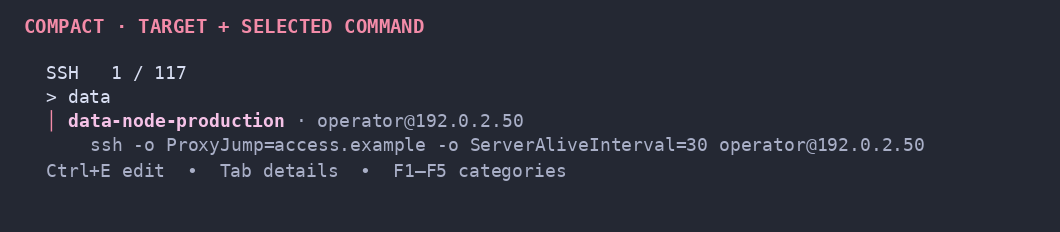
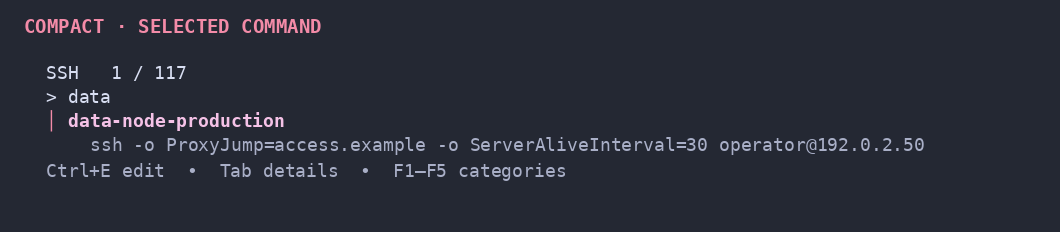
[verified] Show commands only below selected SSH entry

Changed region(s): [[0.1245, 0.0603, 0.4047, 0.1509], [0.2802, 0.4828, 0.4981, 0.5733]]

diff --git a/internal/ui/picker_test.go b/internal/ui/picker_test.go
@@ -26,7 +26,7 @@ func TestPickerUsesSingleLineResultsByDefault(t *testing.T) {
 	}
 }
 
-func TestPickerShowsAddressInRowsAndSelectedCommandBelow(t *testing.T) {
+func TestPickerShowsOnlySelectedCommandBelowName(t *testing.T) {
 	entry := notes.Entry{
 		Desc:    "gateway-production-primary",
 		Address: "operator@192.0.2.10:2222",
@@ -37,15 +37,18 @@ func TestPickerShowsAddressInRowsAndSelectedCommandBelow(t *testing.T) {
 	m := NewPicker([]notes.Entry{entry}, "", DefaultTheme(), Options{Height: 8, ShowAddress: true})
 	m.width, m.height = 100, 8
 	plain := stripANSI(m.View())
-	if !strings.Contains(plain, "│ gateway-production-primary · operator@192.0.2.10:2222") {
-		t.Fatalf("selected row does not preserve the full name and short address: %q", plain)
+	if !strings.Contains(plain, "│ gateway-production-primary") {
+		t.Fatalf("selected row lost its full name: %q", plain)
+	}
+	if strings.Contains(plain, "· operator@192.0.2.10:2222") {
+		t.Fatalf("selected row still shows the obsolete short target preview: %q", plain)
 	}
 	if !strings.Contains(plain, "ssh -p 2222 operator@192.0.2.10") {
 		t.Fatalf("selected row does not show its full command below: %q", plain)
 	}
 }
 
-func TestUnselectedRowsDoNotRepeatFullCommands(t *testing.T) {
+func TestUnselectedRowsShowOnlyNames(t *testing.T) {
 	entries := []notes.Entry{
 		{Desc: "selected", Address: "root@192.0.2.1", Command: "ssh -o ProxyJump=jump root@192.0.2.1", Actions: []notes.Action{{Cmd: "ssh selected"}}},
 		{Desc: "unselected-long-name-that-must-stay-complete", Address: "admin@192.0.2.2", Command: "ssh -o ProxyJump=jump admin@192.0.2.2", Actions: []notes.Action{{Cmd: "ssh unselected"}}},
@@ -53,8 +56,11 @@ func TestUnselectedRowsDoNotRepeatFullCommands(t *testing.T) {
 	m := NewPicker(entries, "", DefaultTheme(), Options{Height: 10, ShowAddress: true})
 	m.width, m.height = 100, 10
 	plain := stripANSI(m.View())
-	if !strings.Contains(plain, "unselected-long-name-that-must-stay-complete · admin@192.0.2.2") {
-		t.Fatalf("unselected row lost its full name or address: %q", plain)
+	if !strings.Contains(plain, "unselected-long-name-that-must-stay-complete") {
+		t.Fatalf("unselected row lost its full name: %q", plain)
+	}
+	if strings.Contains(plain, "admin@192.0.2.2") {
+		t.Fatalf("unselected row shows an address or command preview: %q", plain)
 	}
 	if strings.Count(plain, "ssh -o ProxyJump=jump") != 1 {
 		t.Fatalf("full command should appear only for the selected row: %q", plain)
@@ -118,8 +124,8 @@ func TestSelectedCommandTailIsNotClippedByCompactHeight(t *testing.T) {
 func TestSelectedCommandWrapsSingleLongTokenByDisplayWidth(t *testing.T) {
 	command := strings.Repeat("界", 30)
 	for _, line := range selectedCommandLines(command, 24) {
-		if width := ansi.StringWidth(line); width > 20 {
-			t.Fatalf("selected command line width = %d, want <= 20: %q", width, line)
+		if width := ansi.StringWidth(line); width > 22 {
+			t.Fatalf("selected command line width = %d, want <= 22: %q", width, line)
 		}
 	}
 }
@@ -143,8 +149,8 @@ func TestMinimumViewportPreservesCompleteWrappedTarget(t *testing.T) {
 	m.width, m.height = 20, 6
 	plain := stripANSI(m.View())
 	compact := strings.NewReplacer(" ", "", "\t", "", "\n", "", "\r", "").Replace(plain)
-	if !strings.Contains(compact, target) {
-		t.Fatalf("minimum viewport lost part of wrapped target: %q", plain)
+	if !strings.Contains(compact, "selected-nam") || !strings.Contains(compact, target) || !strings.Contains(plain, "…") {
+		t.Fatalf("minimum viewport lost the selected name, omission marker, or part of the wrapped target: %q", plain)
 	}
 }
 
@@ -282,8 +288,11 @@ func TestCompactHeightIncludesSelectedCommandAndOtherRows(t *testing.T) {
 	m := NewPicker(entries, "", DefaultTheme(), Options{Height: 12, ShowAddress: true})
 	m.width, m.height = 80, 12
 	plain := stripANSI(m.View())
-	if !strings.Contains(plain, "two · root@192.0.2.2") || !strings.Contains(plain, "three · root@192.0.2.3") {
+	if !strings.Contains(plain, "two") || !strings.Contains(plain, "three") {
 		t.Fatalf("selected command preview hid ordinary rows: %q", plain)
+	}
+	if strings.Contains(plain, "root@192.0.2.2") || strings.Contains(plain, "root@192.0.2.3") {
+		t.Fatalf("ordinary rows still show obsolete short target previews: %q", plain)
 	}
 }
 
@@ -318,7 +327,7 @@ func TestAddressModeKeepsFuzzyMatchHighlighting(t *testing.T) {
 	}
 }
 
-func TestAddressModeFitsMinimumPickerHeight(t *testing.T) {
+func TestSelectedCommandModeFitsMinimumPickerHeight(t *testing.T) {
 	entries := []notes.Entry{
 		{Desc: "one", Address: "operator@192.0.2.1", Kind: "host", Actions: []notes.Action{{Cmd: "ssh one"}}},
 		{Desc: "two", Address: "operator@192.0.2.2", Kind: "host", Actions: []notes.Action{{Cmd: "ssh two"}}},
@@ -326,8 +335,8 @@ func TestAddressModeFitsMinimumPickerHeight(t *testing.T) {
 	m := NewPicker(entries, "", DefaultTheme(), Options{Height: 6, ShowAddress: true})
 	m.width, m.height = 100, 6
 	plain := stripANSI(m.View())
-	if !strings.Contains(plain, "operator@192.0.2.1") || !strings.Contains(plain, "F1–F5 categories") || strings.Contains(plain, "…") {
-		t.Fatalf("minimum-height address mode is clipped: %q", plain)
+	if !strings.Contains(plain, "one") || !strings.Contains(plain, "two") || !strings.Contains(plain, "F1–F5 categories") || strings.Contains(plain, "operator@") || strings.Contains(plain, "…") {
+		t.Fatalf("minimum-height selected-command mode is clipped or shows an obsolete target preview: %q", plain)
 	}
 }
 

diff --git a/internal/ui/picker.go b/internal/ui/picker.go
@@ -1000,15 +1000,15 @@ func (m PickerModel) resultLines(width int, rowStyle, selectedStyle, detailStyle
 		entry := match.Entry
 		selected := index == m.cursor
 		rowLines := m.renderMatchLabelLines(match, entry, width, selected, rowStyle, selectedStyle, detailStyle)
-		if selected {
-			rowLines = fitSelectedLabelLines(rowLines, entry.Address, width, budget, detailStyle)
-		}
 		if selected && m.options.ShowAddress {
-			commandSlots := maxInt(0, budget-len(rowLines))
-			commandLines := fitSelectedCommandLines(selectedCommandLines(entry.Command, width), commandSlots, maxInt(8, width-4))
+			commandLines := fitSelectedCommandLines(entry.Command, selectedCommandLines(entry.Command, width), maxInt(0, budget-1), maxInt(8, width-2))
+			labelBudget := maxInt(1, budget-len(commandLines))
+			rowLines = fitSelectedLabelLines(rowLines, "", width, labelBudget, detailStyle)
 			for _, commandLine := range commandLines {
-				rowLines = append(rowLines, detailStyle.Render("    "+commandLine))
+				rowLines = append(rowLines, detailStyle.Render("  "+commandLine))
 			}
+		} else if selected {
+			rowLines = fitSelectedLabelLines(rowLines, "", width, budget, detailStyle)
 		}
 		rows = append(rows, renderedRow{lines: rowLines})
 	}
@@ -1060,7 +1060,7 @@ func fitSelectedLabelLines(lines []string, target string, width, budget int, det
 	target = strings.TrimSpace(target)
 	if target == "" {
 		if budget == 1 {
-			return []string{detailStyle.Render("…")}
+			return []string{truncateRunes(lines[0], width)}
 		}
 		out := append([]string(nil), lines[:budget-1]...)
 		out = append(out, detailStyle.Render("…"))
@@ -1087,14 +1087,16 @@ func fitSelectedLabelLines(lines []string, target string, width, budget int, det
 
 func (m PickerModel) renderMatchLabelLines(match notes.Match, entry notes.Entry, width int, selected bool, rowStyle, selectedStyle, detailStyle lipgloss.Style) []string {
 	label := strings.Join(strings.Fields(strings.TrimSpace(match.Label)), " ")
-	target := strings.Join(strings.Fields(strings.TrimSpace(entry.Address)), " ")
+	if label == "" {
+		label = strings.Join(strings.Fields(strings.TrimSpace(match.Detail)), " ")
+	}
 	prefix := "  "
 	if selected {
 		prefix = m.theme.SelectedMark + " "
 	}
 	rowWidth := maxInt(12, width)
 	contentWidth := maxInt(8, rowWidth-ansi.StringWidth(prefix))
-	if !m.options.ShowAddress || (target == "" && ansi.StringWidth(label) <= contentWidth) || (target != "" && ansi.StringWidth(label)+3+ansi.StringWidth(target) <= contentWidth) {
+	if ansi.StringWidth(label) <= contentWidth {
 		return []string{m.renderMatchLabelLine(match, entry, width, selected, rowStyle, selectedStyle, detailStyle)}
 	}
 	primaryStyle := rowStyle
@@ -1103,7 +1105,6 @@ func (m PickerModel) renderMatchLabelLines(match notes.Match, entry notes.Entry,
 	}
 	query := strings.TrimSpace(m.input.Value())
 	primaryMatchStyle := primaryStyle.Foreground(lipgloss.Color(m.theme.MatchFG)).Bold(true)
-	detailMatchStyle := detailStyle.Foreground(lipgloss.Color(m.theme.MatchFG)).Bold(true)
 	lines := []string{}
 	for index, part := range wrapDisplayWidth(label, contentWidth) {
 		linePrefix := "  "
@@ -1111,14 +1112,6 @@ func (m PickerModel) renderMatchLabelLines(match notes.Match, entry notes.Entry,
 			linePrefix = prefix
 		}
 		lines = append(lines, primaryStyle.Render(linePrefix)+renderFuzzyText(part, query, primaryStyle, primaryMatchStyle))
-	}
-	if target == "" {
-		return lines
-	}
-	targetPrefix := "    "
-	targetWidth := maxInt(4, rowWidth-ansi.StringWidth(targetPrefix))
-	for _, part := range wrapDisplayWidth(target, targetWidth) {
-		lines = append(lines, detailStyle.Render(targetPrefix)+renderFuzzyText(part, query, detailStyle, detailMatchStyle))
 	}
 	return lines
 }
@@ -1134,7 +1127,7 @@ func (m PickerModel) renderMatchLabelLine(match notes.Match, entry notes.Entry, 
 
 	detailText := match.Detail
 	if m.options.ShowAddress {
-		detailText = entry.Address
+		detailText = ""
 	}
 	if m.showInlinePreview() && selected && !entry.HasCmd() {
 		preview := m.cachedPreview(entry)
@@ -1290,7 +1283,7 @@ func selectedCommandLines(command string, width int) []string {
 	if command == "" {
 		return nil
 	}
-	width = maxInt(8, width-4)
+	width = maxInt(8, width-2)
 	words := splitDisplayWords(command)
 	if len(words) == 0 {
 		return nil
@@ -1327,7 +1320,7 @@ func selectedCommandLines(command string, width int) []string {
 	return lines
 }
 
-func fitSelectedCommandLines(lines []string, slots, width int) []string {
+func fitSelectedCommandLines(command string, lines []string, slots, width int) []string {
 	if slots <= 0 || len(lines) == 0 {
 		return nil
 	}
@@ -1336,6 +1329,15 @@ func fitSelectedCommandLines(lines []string, slots, width int) []string {
 	}
 	if slots == 1 {
 		return []string{truncateMiddleRunes(strings.Join(lines, " "), width)}
+	}
+	words := splitDisplayWords(command)
+	if len(words) > 0 {
+		tail := wrapDisplayWidth("… "+words[len(words)-1], width)
+		if len(tail) <= slots {
+			prefixCount := slots - len(tail)
+			out := append([]string(nil), lines[:prefixCount]...)
+			return append(out, tail...)
+		}
 	}
 	out := append([]string(nil), lines[:slots-1]...)
 	last := "… " + truncateLeftWidth(lines[len(lines)-1], maxInt(1, width-2))

diff --git a/docs/screenshots/generate.py b/docs/screenshots/generate.py
@@ -27,16 +27,7 @@ def draw_rows(draw, x, y, rows, selected):
     for i, (name_text, address, command) in enumerate(rows):
         marker = "│" if i == selected else " "
         draw.text((x, y), marker, fill=PINK if i == selected else FG, font=FONT)
-        draw_segments(
-            draw,
-            x + 22,
-            y,
-            [
-                (name_text, MATCH if i == selected else FG, BOLD if i == selected else FONT),
-                (" · ", MUTED, FONT),
-                (address, MUTED, FONT),
-            ],
-        )
+        draw.text((x + 22, y), name_text, fill=MATCH if i == selected else FG, font=BOLD if i == selected else FONT)
         y += LINE
         if i == selected and command:
             for command_line in textwrap.wrap(command, width=82, break_long_words=False, break_on_hyphens=False):
@@ -77,7 +68,7 @@ save("compact-bottom.png", (1060, 312), "COMPACT · BOTTOM", "COMMANDS   4 / 117
 save(
     "compact-top-address.png",
     (1060, 232),
-    "COMPACT · TARGET + SELECTED COMMAND",
+    "COMPACT · SELECTED COMMAND",
     "SSH   1 / 117",
     "data",
     [("data-node-production", "operator@192.0.2.50", "ssh -o ProxyJump=access.example -o ServerAliveInterval=30 operator@192.0.2.50")],

diff --git a/internal/config/config.go b/internal/config/config.go
@@ -338,7 +338,7 @@ func renderConfig(cfg File) string {
 		"# hosts are stored as OpenSSH config in ~/.ssh/config.d/f_hosts/*.conf",
 		"# ui_mode: compact | full-screen (both use the same frameless fzf-style UI)",
 		"# layout: top | bottom (compact mode only)",
-		"# show_address: show name + target rows and the selected composed command below",
+		"# show_address: show the composed command only below the selected name (legacy key name)",
 		"ui_mode: " + yamlScalar(cfg.UIMode),
 		"layout: " + yamlScalar(cfg.Layout),
 		"picker_height: " + strconv.Itoa(cfg.PickerHeight),

diff --git a/internal/app/app_test.go b/internal/app/app_test.go
@@ -67,8 +67,8 @@ func TestVersionReportsCurrentRelease(t *testing.T) {
 	if err := Run([]string{"version"}, strings.NewReader(""), &stdout, &stderr); err != nil {
 		t.Fatal(err)
 	}
-	if got := strings.TrimSpace(stdout.String()); got != "f 0.9.8" {
-		t.Fatalf("version = %q, want %q", got, "f 0.9.8")
+	if got := strings.TrimSpace(stdout.String()); got != "f 0.9.9" {
+		t.Fatalf("version = %q, want %q", got, "f 0.9.9")
 	}
 }
 

diff --git a/internal/app/app.go b/internal/app/app.go
@@ -22,7 +22,7 @@ import (
 )
 
 var (
-	version     = "0.9.8"
+	version     = "0.9.9"
 	buildCommit = "unknown"
 )
 

diff --git a/README.ru.md b/README.ru.md
@@ -11,7 +11,7 @@
 - небольшой цветной badge активной категории и счётчик;
 - строка запроса без заливки фона и инверсного блочного курсора, чтобы на прозрачном фоне терминала не появлялось чёрное пятно;
 - счётчик совпадений;
-- обычные строки показывают полное имя записи и короткий target: `name · user@host`; если вместе они не помещаются, полное имя и target переносятся на отдельные строки с учётом ширины терминала; под выбранной строкой показывается вычисленная команда целиком, пока она помещается, а в необычно маленьком окне середина явно заменяется на `…` с сохранением конечного target; `Tab` показывает полный блок исходного SSH config; имена записей никогда не сокращаются;
+- обычные строки показывают только полное имя записи; только под выбранной строкой отображается вычисленная команда целиком, пока она помещается, а в необычно маленьком окне середина явно заменяется на `…` с сохранением конечного target; `Tab` показывает полный блок исходного SSH config; имена записей никогда не сокращаются;
 - цветное выделение совпавших символов;
 - тонкий цветной маркер выбранной строки;
 - просмотр по `Tab` для импортированной SSH-записи показывает её конкретный блок OpenSSH (`Host` и все директивы) без дублирующих служебных полей; `Ctrl+Y` печатает тот же блок в терминал; для не-SSH команд сохраняется прежний подробный вид;
@@ -31,7 +31,7 @@ f config layout bottom   # внизу экрана
 f config layout top      # вверху экрана
 ```
 
-Показывать короткий target после полного имени и полную вычисленную команду под выбранной записью (старое имя настройки `address` сохранено для совместимости):
+Показывать полную вычисленную команду только под выбранной записью (старое имя настройки `address` сохранено для совместимости):
 
 ```bash
 f config address on
@@ -98,7 +98,7 @@ f config ui full-screen # полноэкранный UI
 f config layout bottom  # compact снизу
 f config layout top     # compact сверху
 f config height 20      # высота compact picker, минимум 6
-f config address on     # name · user@host + команда выбранной записи ниже
+f config address on     # команда только под выбранной записью; остальные строки — только имена
 f setup                 # запросить repo и проверить доступ
 ```
 

diff --git a/AGENTS.md b/AGENTS.md
@@ -30,7 +30,7 @@ User edit action must write back to `~/.ssh/config.d/f_hosts/f.conf`, not a hidd
 
 - UI is Bubble Tea/Bubbles/Lipgloss.
 - `ui_mode: compact | full-screen` is persisted in `~/.config/f/config.yaml`; `f config ui compact|full-screen` changes it.
-- `show_address: true | false` is the compatibility name persisted in the same file; `f config address on|off` toggles `name · user@host` rows. Entry names are never truncated: when a name and target do not fit together, render them as explicit display-cell-safe wrapped lines and count those physical lines in the viewport budget. The selected row additionally renders the composed command below it. Show it completely when it fits; in a smaller viewport, keep output within `picker_height`, mark the omitted middle with `…`, and preserve the final target. `Tab` provides the complete source-style block.
+- `show_address: true | false` is the compatibility name persisted in the same file; `f config address on|off` toggles the selected-only composed-command preview. Ordinary rows show only complete entry names and never show the old `user@host` target preview. Entry names are never truncated: wrap long names on explicit display-cell-safe lines and count those physical lines in the viewport budget. Show the selected command completely when it fits; in a smaller viewport, keep output within `picker_height`, mark the omitted middle with `…`, and preserve the final target. `Tab` provides the complete source-style block.
 - `f config` and `f config show` print the current UI settings, exact config file, SSH inventory paths, and available setters. Every setter prints the persisted YAML key and config path; `f config height N` sets `picker_height` with a minimum of 6.
 - `picker_height` controls compact-mode height; full-screen always uses the terminal height.
 - Legacy `light` migrates to `compact`; legacy `full` migrates to `full-screen`.
@@ -103,7 +103,7 @@ Entries retain internal classification for display and preview metadata, but cla
 - `RemoteCommand` -> commands;
 - `ProxyJump`, `ProxyCommand` -> jumps.
 
-Expanded command generation must preserve every directive in the selected concrete `Host` block. Render `HostName`/`User` as the target and every other directive in source order as shell-safe `-o Key=Value`. Execution still uses the alias. Ordinary rows show the full entry name and compact target, using explicit display-cell-aware wrapped lines when they do not fit together. The selected row adds the composed command below; show it fully when the viewport permits, otherwise use a bounded preview with an explicit `…` omission marker and preserve the final target. `Tab` and `Ctrl+Y` use the complete source-style `Host` block.
+Expanded command generation must preserve every directive in the selected concrete `Host` block. Render `HostName`/`User` as the target and every other directive in source order as shell-safe `-o Key=Value`. Execution still uses the alias. Ordinary rows show only the full entry name, using explicit display-cell-aware wrapping when needed. The selected row alone adds the composed command below; show it fully when the viewport permits, otherwise use a bounded preview with an explicit `…` omission marker and preserve the final target. `Tab` and `Ctrl+Y` use the complete source-style `Host` block.
 
 ## Host storage and sync
 

diff --git a/README.md b/README.md
@@ -11,7 +11,7 @@ Both sizes use a flat interface without an outer frame or background container. 
 - small colored active-category badge and counter;
 - query line without a painted background or reverse-video block cursor, so transparent terminal backgrounds stay clean;
 - match counter;
-- single-line ordinary results with the complete entry name followed by a compact target: `name · user@host`; if both cannot fit, the complete name and target wrap onto explicit viewport-safe lines; the selected result adds the composed command below, preserving the full command when it fits and showing an explicit middle omission while retaining the final target in unusually small viewports; `Tab` shows the complete source-style block; entry names are never shortened;
+- ordinary results show only the complete entry name; the selected result alone adds the composed command below, preserving the full command when it fits and showing an explicit middle omission while retaining the final target in unusually small viewports; `Tab` shows the complete source-style block; entry names are never shortened;
 - colored fuzzy-match characters;
 - slim colored marker for the selected row;
 - `Tab` detail view for imported SSH entries shows the concrete OpenSSH block (`Host` plus every directive) without duplicate service metadata; `Ctrl+Y` prints that same block to the terminal; non-SSH command entries retain their command details;
@@ -31,7 +31,7 @@ f config layout bottom
 f config layout top
 ```
 
-Show compact targets after every complete entry name and the full composed command below the selected entry (the legacy `address` setting name remains for compatibility):
+Show the full composed command only below the selected entry (the legacy `address` setting name remains for compatibility):
 
 ```bash
 f config address on
@@ -89,7 +89,7 @@ f config ui full-screen # full-screen UI
 f config layout bottom  # compact at bottom
 f config layout top     # compact at top
 f config height 20      # compact picker height (minimum 6)
-f config address on     # name · user@host + selected command below
+f config address on     # selected command below; ordinary rows remain name-only
 f setup                 # interactive repository setup and access check
 ```
 
